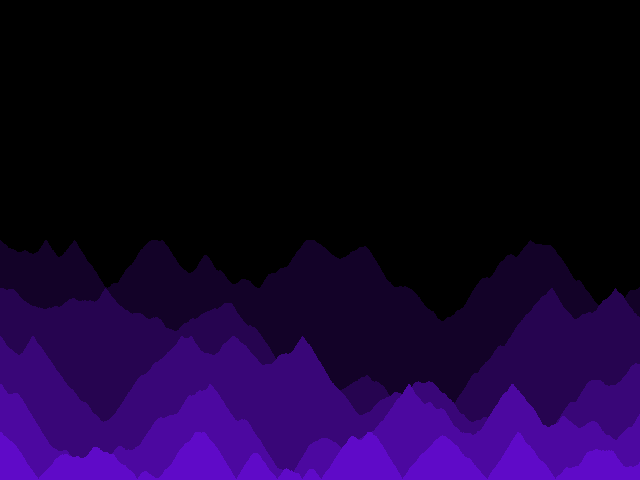
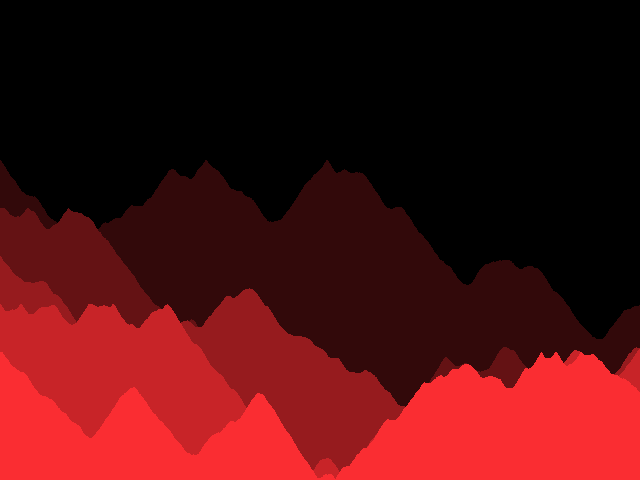
hop

diff --git a/src/main.rs b/src/main.rs
@@ -82,7 +82,7 @@ fn main() {
                 initial_color.0 / mountain_count * (i+1) as u8, 
                 initial_color.1  / mountain_count * (i+1) as u8, 
                 initial_color.2  / mountain_count * (i+1) as u8
-            ]), [480 - 480 / 2 / mountain_count as u32 * (mountain_count as u32 - i as u32) , 480]);
+            ]), [400 - 480 / 2 / mountain_count as u32 * (mountain_count as u32 - i as u32) , 480]);
         m.draw(&mut img);
     }
     
